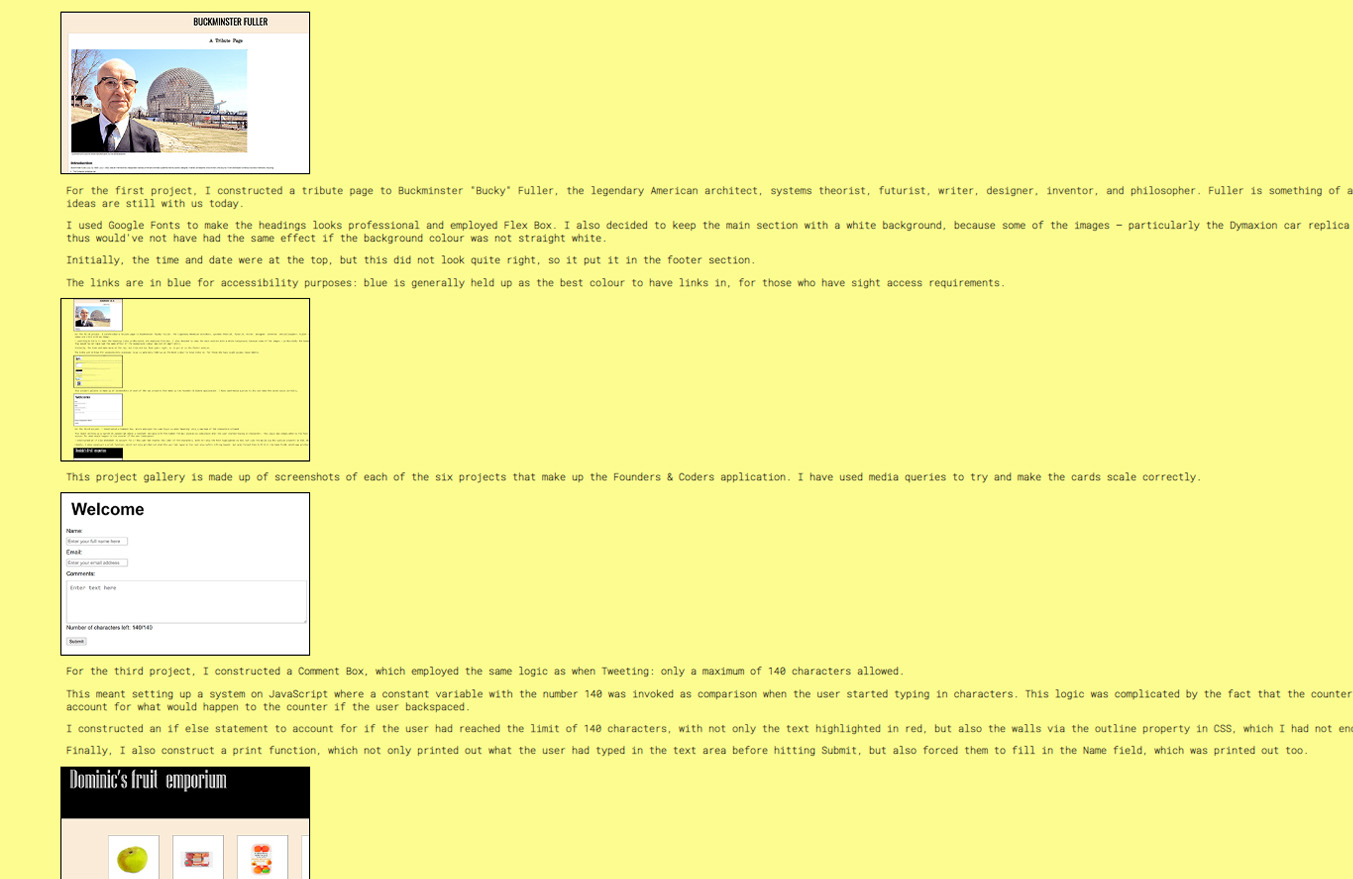
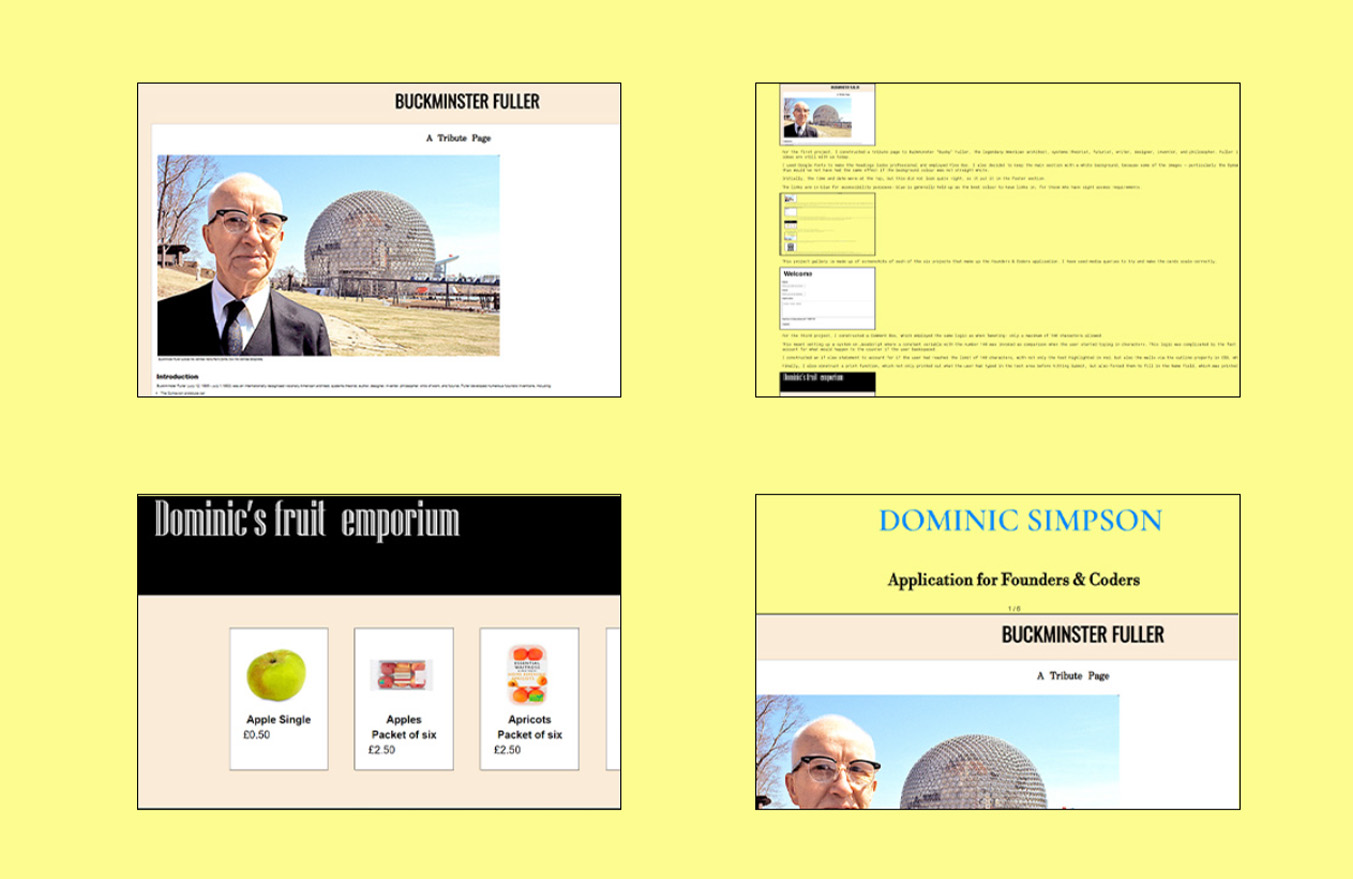
Add files via upload

diff --git a/index.html b/index.html
@@ -80,10 +80,15 @@
 					Coders' Skills Bootcamp.</p>
 				<p>I grew up not far from Founders &amp;Coders' offices, and have been learning coding on and off
 					for the last ten years. I genuinely enjoy designing websites and learning coding, and am ambitious
-					to be a full-time software developer. I have enjoyed my experience working on other applicants
+					to be a full-time software developer. I have enjoyed my experience working with other applicants
 					during F&amp;C's meet-ups, both online and in person, and want to take my experience further
 					by enrolling on F&amp;C's Skills Bootcamp, with a view to completing a Software Apprenticeship
-					at the end, for which I am fully comitted for.</p>
+					at the end, for which I am fully comitted for. I am ambitous to keen to be a Software Developer
+					full-time. But more than that, I am also able to work as part of a student community, and apply
+					non-judgemental respect to my fellow cohorts.</p>
+					<p>My love of coding comes from the creativity and experience of continually learning.
+					When I was a kid, I programmed simple computer games on an Amstrad CPC-46, using BASIC language -
+					so with the Theseus &amp; Project, it feels like I've come full circle.</p>
 					<p>This portfolio contains my work on the six projects that are 
 					required as part of the application process, as well as some of my other work.
 					Click on the images below and they will take you to the projects' GitHub repository.</p>

diff --git a/css/styles.css b/css/styles.css
@@ -220,14 +220,6 @@ ul {
 }
 
 
-@media screen and (max-width: 750spx)
-{
-.cards
-{
-	width: 50%;
-}
-}
-
 @media screen and (max-width: 500px)
 {
 .cards
@@ -241,10 +233,63 @@ ul {
 	max-width:				100%;
 	object-fit:				cover;
 	height: 				auto;
-	margin: 				1px auto;
+	margin: 				35px auto;
 }
 
 
+@media screen and (max-width: 1350px)
+{
+.imagewrapper
+{
+	margin: 20px;
+	justify-content: center;
+}
+}
+
+@media screen and (max-width: 1250px)
+{
+.imagewrapper
+{
+	margin: 20px;
+	justify-content: center;
+}
+}
+
+@media screen and (max-width: 1150px)
+{
+.imagewrapper
+{
+	margin: 20px;
+	justify-content: center;
+}
+}
+
+@media screen and (max-width: 1000px)
+{
+.imagewrapper
+{
+	margin: 20px;
+	justify-content: center;
+}
+}
+
+@media screen and (max-width: 850px)
+{
+.imagewrapper
+{
+	margin: 20px;
+	justify-content: center;
+}
+}
+
+@media screen and (max-width: 750px)
+{
+.imagewrapper
+{
+	margin: 20px;
+	justify-content: center;
+}
+}
 
 .imagewrapper img
 {
